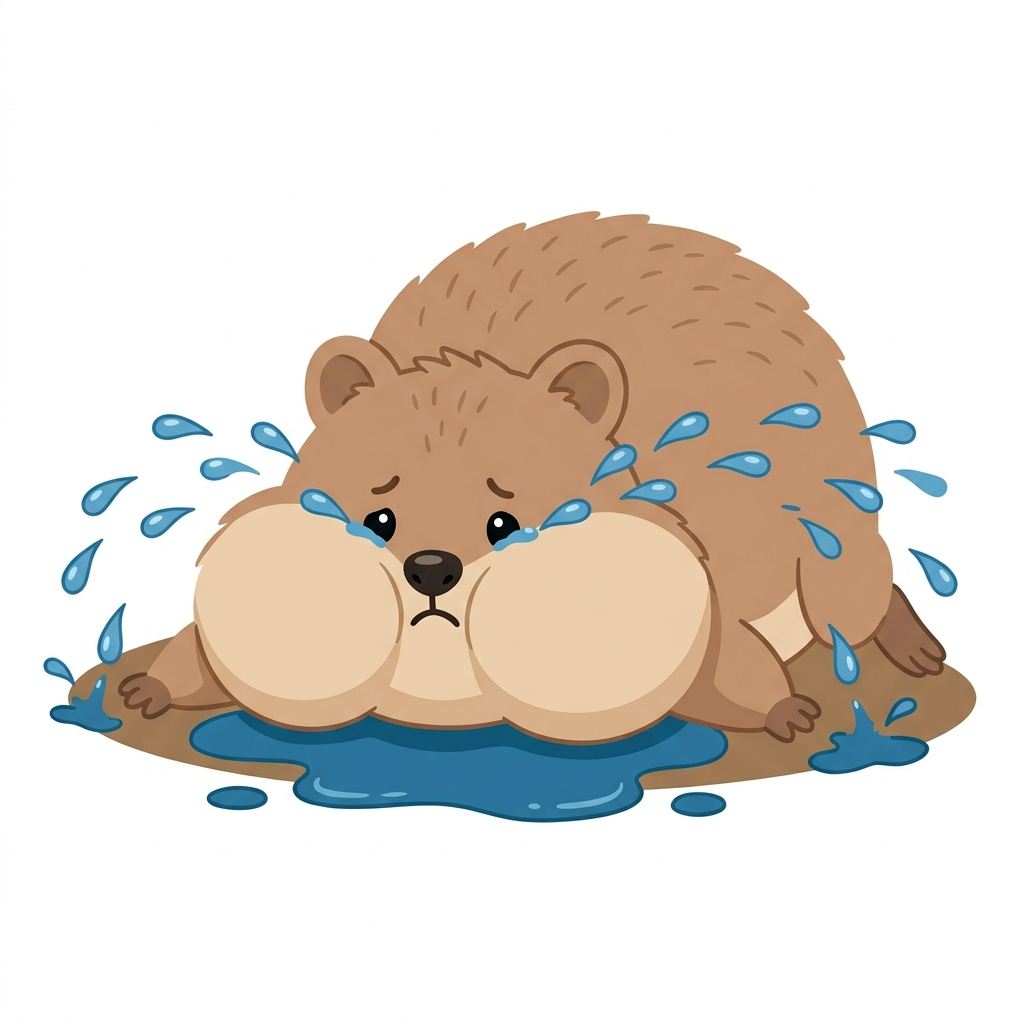
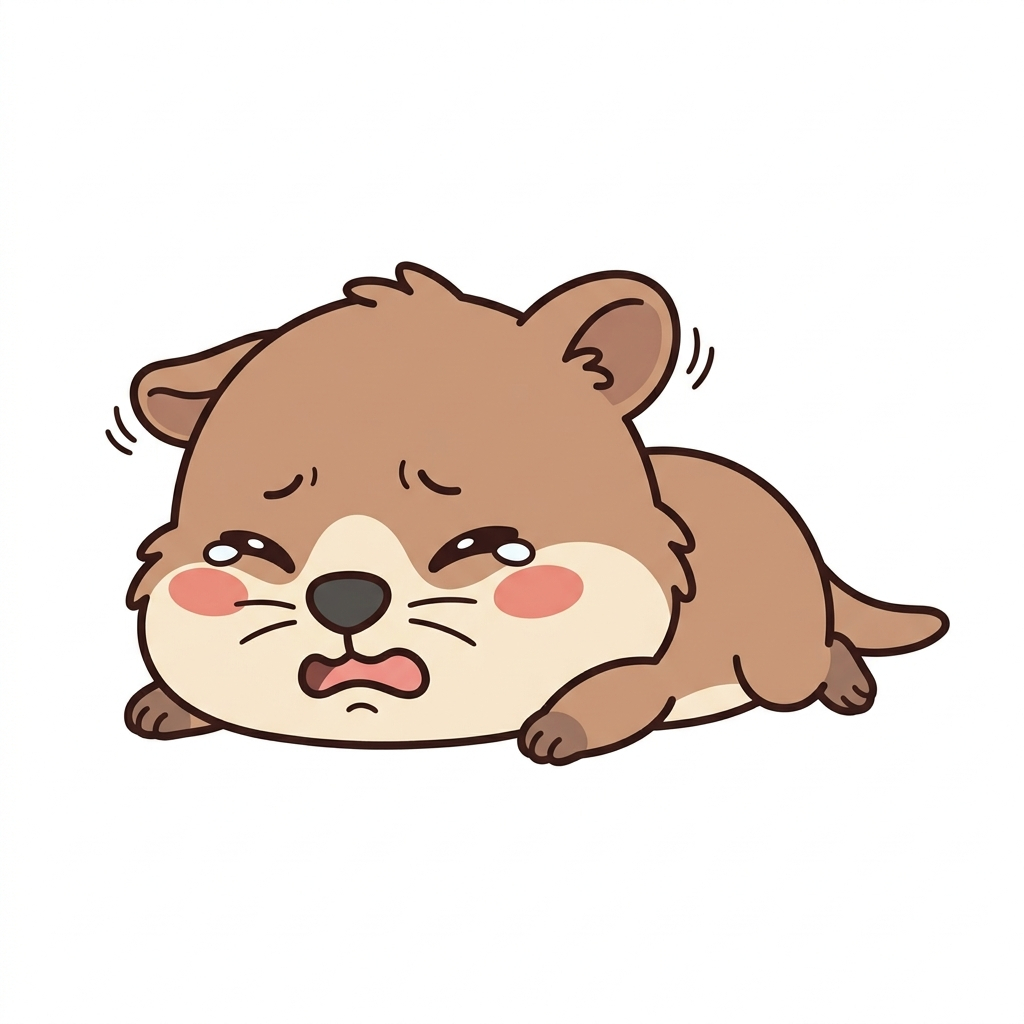
Add chibi Quokkas, dynamic background removal, independent jumping notes/tears, and 2s duration

diff --git a/public/app.js b/public/app.js
@@ -1,3 +1,32 @@
+const imageCache = {};
+
+function getTransparentImage(src, callback) {
+  if (imageCache[src]) {
+    callback(imageCache[src]);
+    return;
+  }
+  const img = new Image();
+  img.crossOrigin = 'Anonymous';
+  img.onload = () => {
+    const canvas = document.createElement('canvas');
+    canvas.width = img.width;
+    canvas.height = img.height;
+    const ctx = canvas.getContext('2d');
+    ctx.drawImage(img, 0, 0);
+    const imageData = ctx.getImageData(0, 0, canvas.width, canvas.height);
+    const data = imageData.data;
+    for (let i = 0; i < data.length; i += 4) {
+      if (data[i] > 230 && data[i+1] > 230 && data[i+2] > 230) {
+        data[i+3] = 0;
+      }
+    }
+    ctx.putImageData(imageData, 0, 0);
+    imageCache[src] = canvas.toDataURL('image/png');
+    callback(imageCache[src]);
+  };
+  img.src = src;
+}
+
 function showFloatingEmoji(e, emoji) {
   if (!e) return;
   
@@ -6,57 +35,106 @@ function showFloatingEmoji(e, emoji) {
     const style = document.createElement('style');
     style.id = 'floating-anim-style';
     style.innerHTML = `
-      @keyframes floatWiggle {
-        0% { transform: rotate(-10deg); }
-        50% { transform: rotate(10deg); }
-        100% { transform: rotate(-10deg); }
+      @keyframes danceWiggle {
+        0% { transform: rotate(-15deg) translateY(0); }
+        25% { transform: rotate(15deg) translateY(-10px); }
+        50% { transform: rotate(-15deg) translateY(0); }
+        75% { transform: rotate(15deg) translateY(-10px); }
+        100% { transform: rotate(-15deg) translateY(0); }
+      }
+      @keyframes cryShake {
+        0% { transform: translateX(0); }
+        25% { transform: translateX(-3px) translateY(2px); }
+        50% { transform: translateX(3px) translateY(-2px); }
+        75% { transform: translateX(-3px) translateY(2px); }
+        100% { transform: translateX(0); }
+      }
+      @keyframes popNote {
+        0% { transform: translate(0, 0) scale(0); opacity: 0; }
+        20% { transform: translate(var(--dx), var(--dy)) scale(1.5); opacity: 1; }
+        80% { transform: translate(calc(var(--dx) * 1.5), calc(var(--dy) * 2)) scale(1); opacity: 1; }
+        100% { transform: translate(calc(var(--dx) * 2), calc(var(--dy) * 3)) scale(0); opacity: 0; }
       }
     `;
     document.head.appendChild(style);
   }
   
   const isImage = emoji.endsWith('.png') || emoji.endsWith('.jpg') || emoji.endsWith('.gif');
-  let el;
+  
+  const createWrapper = (elContent) => {
+    const wrapper = document.createElement('div');
+    wrapper.style.position = 'fixed';
+    wrapper.style.left = (e.clientX - (isImage ? 35 : 20)) + 'px';
+    wrapper.style.top = (e.clientY - (isImage ? 35 : 25)) + 'px';
+    wrapper.style.pointerEvents = 'none';
+    wrapper.style.zIndex = '9999';
+    if (!isImage) {
+      wrapper.style.filter = 'drop-shadow(0px 4px 6px rgba(0,0,0,0.3))';
+    }
+    wrapper.style.transform = 'translateY(0) scale(0.3)';
+    wrapper.style.opacity = '1';
+    // Increased duration to 2s
+    wrapper.style.transition = 'transform 2s cubic-bezier(0.34, 1.56, 0.64, 1), opacity 2s ease-in-out';
+    
+    wrapper.appendChild(elContent);
+    document.body.appendChild(wrapper);
+    
+    void wrapper.offsetHeight;
+    
+    const randomX = (Math.random() * 60 - 30);
+    wrapper.style.transform = `translate(${randomX}px, -200px) scale(1.5)`;
+    wrapper.style.opacity = '0';
+    
+    setTimeout(() => wrapper.remove(), 2000);
+    return wrapper;
+  };
+
   if (isImage) {
-    el = document.createElement('img');
-    el.src = emoji;
-    el.style.width = '70px'; // Make it slightly larger since it's an image
-    el.style.height = 'auto';
-    el.style.mixBlendMode = 'multiply'; // Makes the white background transparent against light backgrounds
-    // Add wiggle animation to the image itself
-    el.style.animation = 'floatWiggle 0.4s ease-in-out infinite';
+    getTransparentImage(emoji, (transparentSrc) => {
+      const el = document.createElement('img');
+      el.src = transparentSrc;
+      el.style.width = '70px';
+      el.style.height = 'auto';
+      // Removed mixBlendMode because background is now truly transparent
+      
+      const isDance = emoji.includes('dance.png');
+      const isCry = emoji.includes('cry.png');
+      
+      if (isDance) {
+        el.style.animation = 'danceWiggle 0.6s ease-in-out infinite';
+      } else if (isCry) {
+        el.style.animation = 'cryShake 0.3s ease-in-out infinite';
+      }
+      
+      const wrapper = createWrapper(el);
+      
+      // Spawn independent music notes or tears
+      const symbols = isDance ? ['🎵', '🎶', '✨'] : ['💧', '💦', '💧'];
+      for (let i = 0; i < 3; i++) {
+        const sym = document.createElement('div');
+        sym.innerText = symbols[i];
+        sym.style.position = 'absolute';
+        sym.style.fontSize = '24px';
+        sym.style.left = '20px';
+        sym.style.top = '20px';
+        sym.style.opacity = '0';
+        
+        // Random trajectory
+        const dx = (Math.random() - 0.5) * 80 + 'px';
+        const dy = (Math.random() * -60 - 20) + 'px';
+        sym.style.setProperty('--dx', dx);
+        sym.style.setProperty('--dy', dy);
+        
+        sym.style.animation = `popNote 1.5s ease-out ${Math.random() * 0.3}s forwards`;
+        wrapper.appendChild(sym);
+      }
+    });
   } else {
-    el = document.createElement('div');
+    const el = document.createElement('div');
     el.innerText = emoji;
     el.style.fontSize = '40px';
+    createWrapper(el);
   }
-
-  // Wrapper element to handle the upward floating transition
-  const wrapper = document.createElement('div');
-  wrapper.style.position = 'fixed';
-  wrapper.style.left = (e.clientX - (isImage ? 35 : 20)) + 'px';
-  wrapper.style.top = (e.clientY - (isImage ? 35 : 25)) + 'px';
-  wrapper.style.pointerEvents = 'none';
-  wrapper.style.zIndex = '9999';
-  if (!isImage) {
-    wrapper.style.filter = 'drop-shadow(0px 4px 6px rgba(0,0,0,0.3))';
-  }
-  wrapper.style.transform = 'translateY(0) scale(0.3)';
-  wrapper.style.opacity = '1';
-  wrapper.style.transition = 'transform 1.5s cubic-bezier(0.34, 1.56, 0.64, 1), opacity 1.5s ease-in-out';
-  
-  wrapper.appendChild(el);
-  document.body.appendChild(wrapper);
-  
-  // force reflow
-  void wrapper.offsetHeight;
-  
-  // Target state
-  const randomX = (Math.random() * 40 - 20); // Drift left/right slightly
-  wrapper.style.transform = `translate(${randomX}px, -150px) scale(1.5)`;
-  wrapper.style.opacity = '0';
-  
-  setTimeout(() => wrapper.remove(), 1500);
 }
 
 // === 全域狀態 ===
